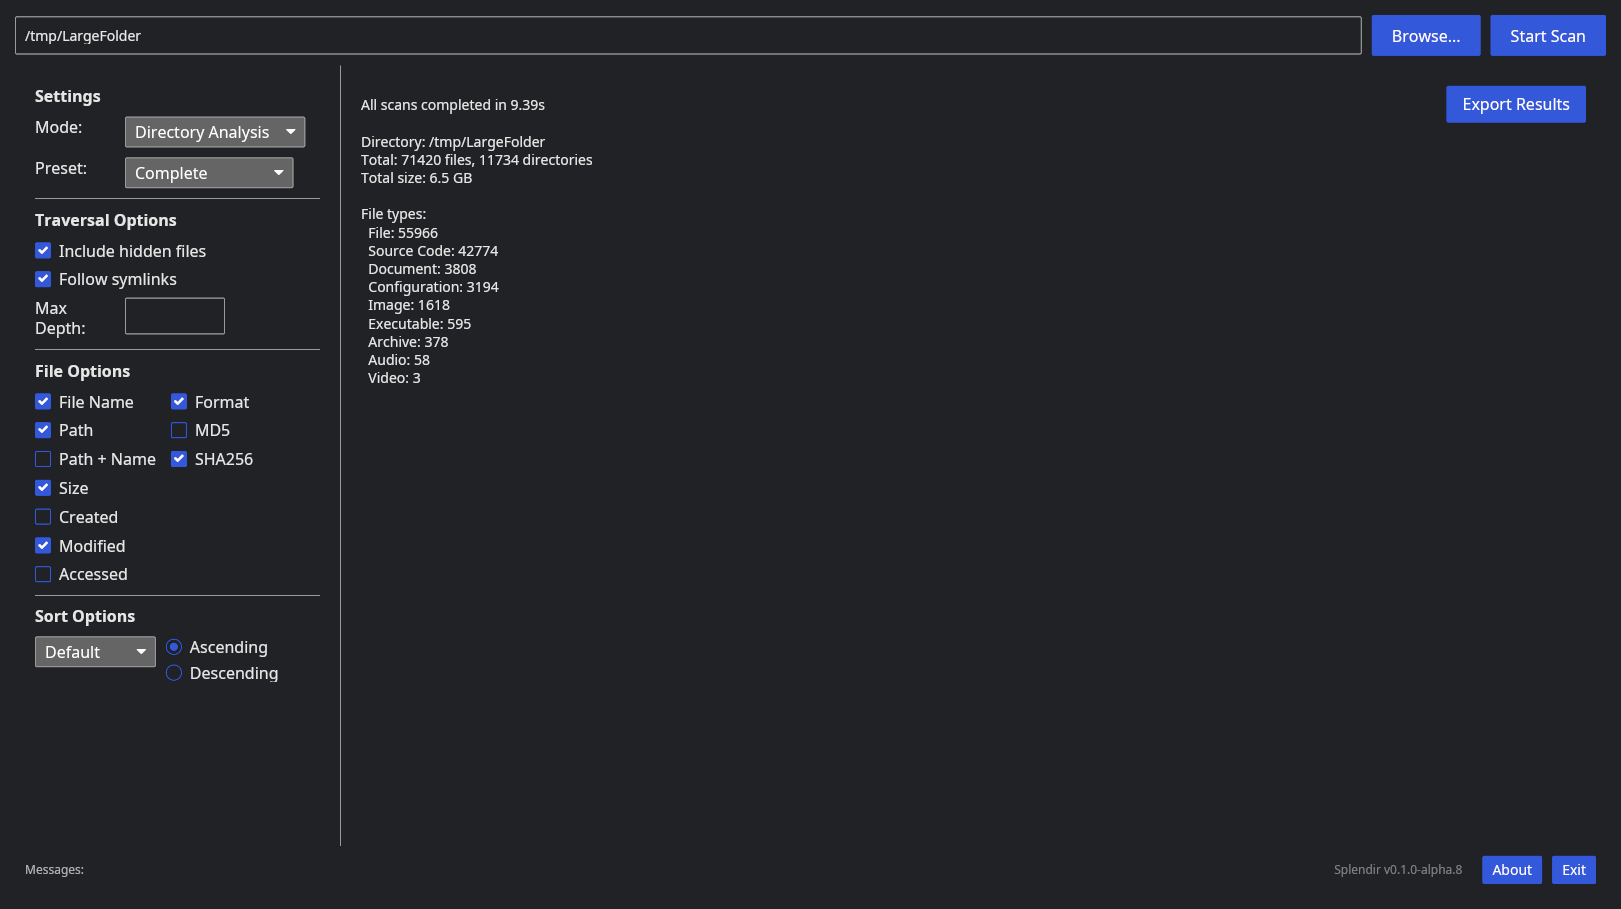
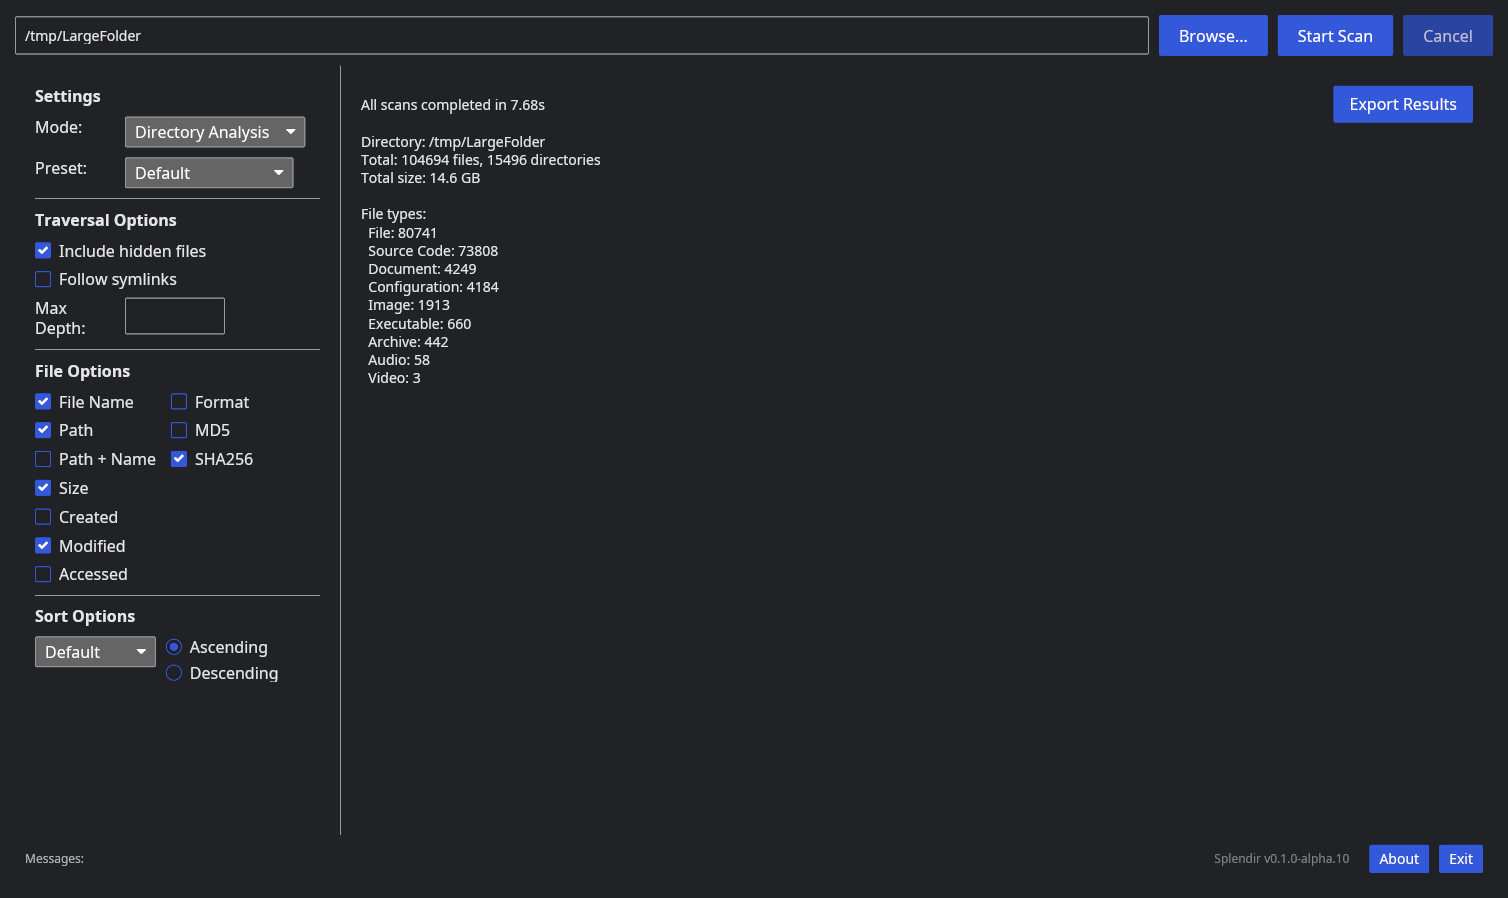
Updated README and screenshot assets

diff --git a/README.md b/README.md
@@ -66,6 +66,8 @@ Extract the ```splendir-macos.tar.gz``` file in your location of choice. Double-
 
 Click the **Browse...** button to select a local directory. Click the **Start Scan** button to begin a scan once you have selected a directory. The **Mode:** dropdown can be set to **Detailed File List** (outputs a file list with metadata), **Tree View** (outputs a graphical tree view similar to the command-line tool "tree"), or **Directory Analysis** (a high-level overview of the directory contents). All three views are generated when **Start Scan** is clicked. When a scan is complete, an **Export** button will appear to allow export of the content. If **Detailed File List** is currently selected, clicking **Export** will generate a CSV file. If **Tree View** is selected, it will generate a UTF-8 text representation of the tree.
 
+Splendir will distribute work among all available CPU cores to provide maximum performance when running long scans (for example, computing SHA256 hashes for many files). You can terminate a long-running scan by clicking **Cancel** at any time. The scan will be shut down once the most recent batch of 10 files has completed. Clicking **Exit** during a scan will also trigger a cancellation.
+
 ![Splendir Directory Listing View](assets/sds-dirview.png)
 
 Both the **Directory Listing** view and **Tree View** are implemented with a virtual scrolling feature to provide live views of directories of any size. When scanning large directories, you will see a progress report as the tool builds this data structure. Once the directory has been scanned, you can scroll to any point in the output to inspect and review before exporting. You can also adjust the Sort Options to instantly view and export sorted results without having to rescan. The **Default** sort option is an alphabetized directory walk (all subdirectory entries grouped together at each level).
